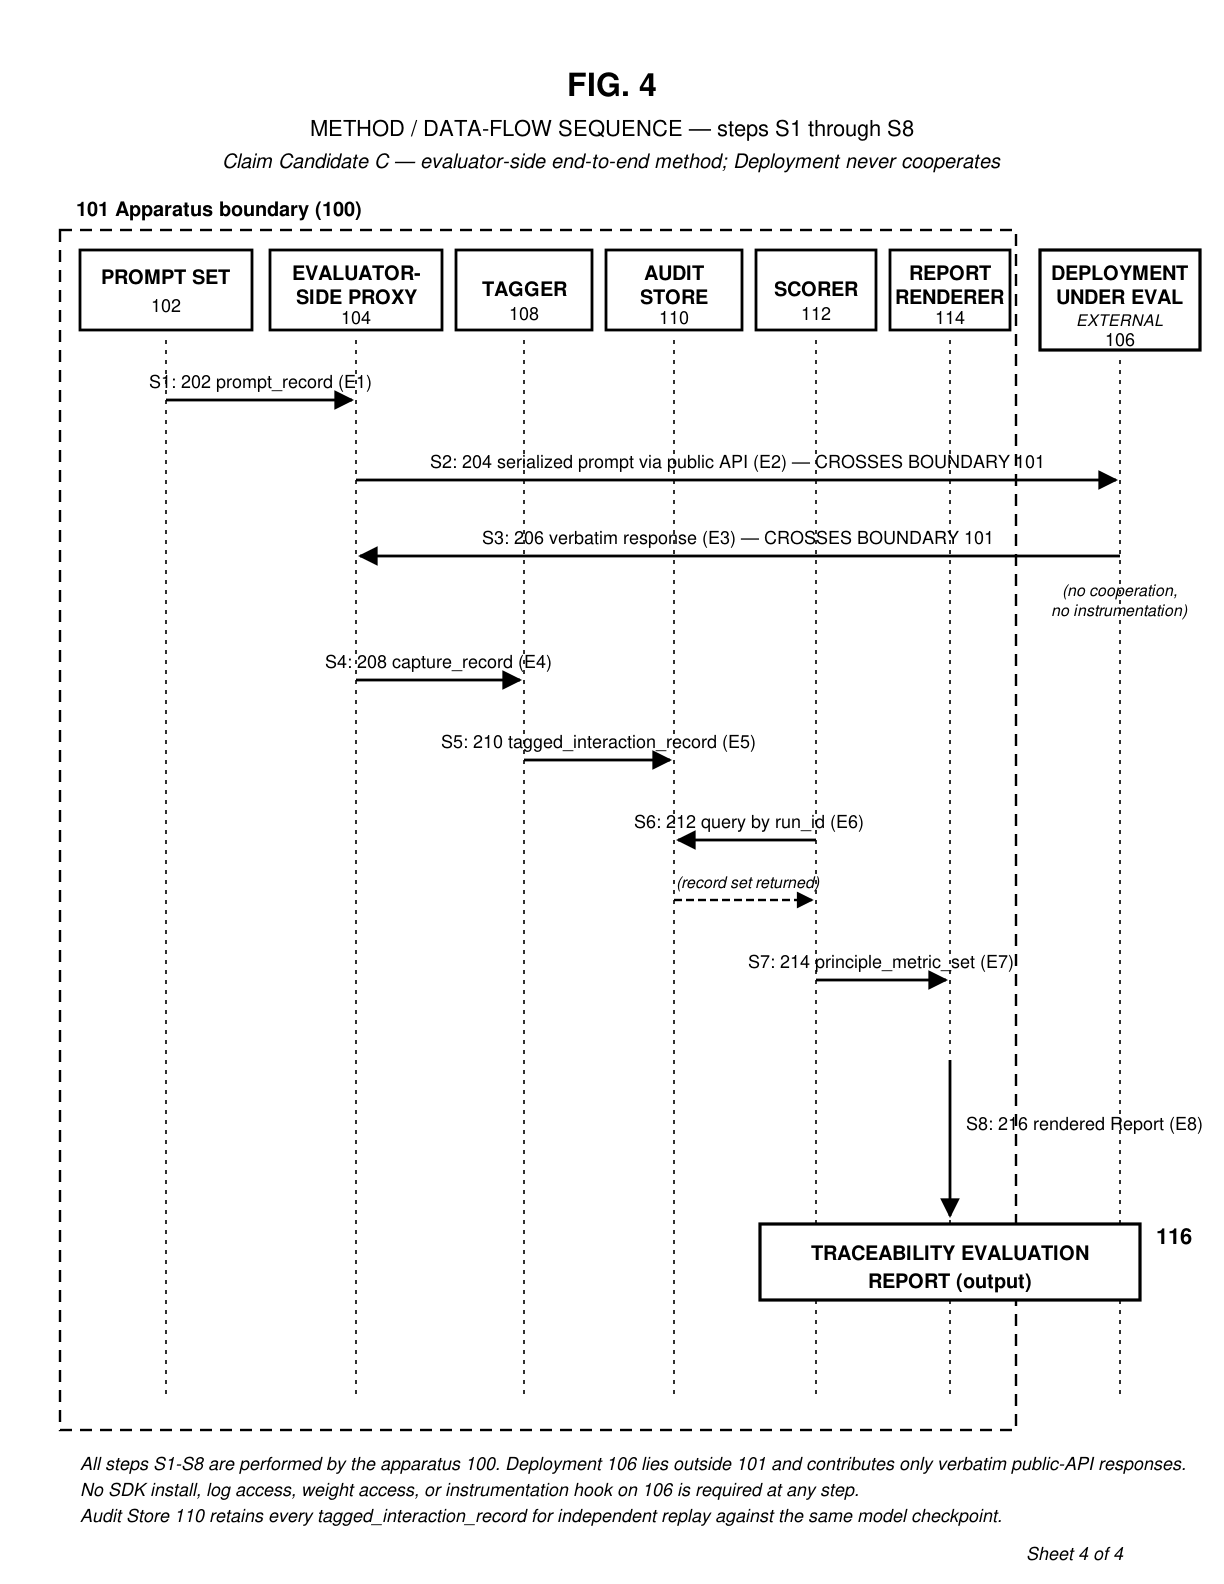
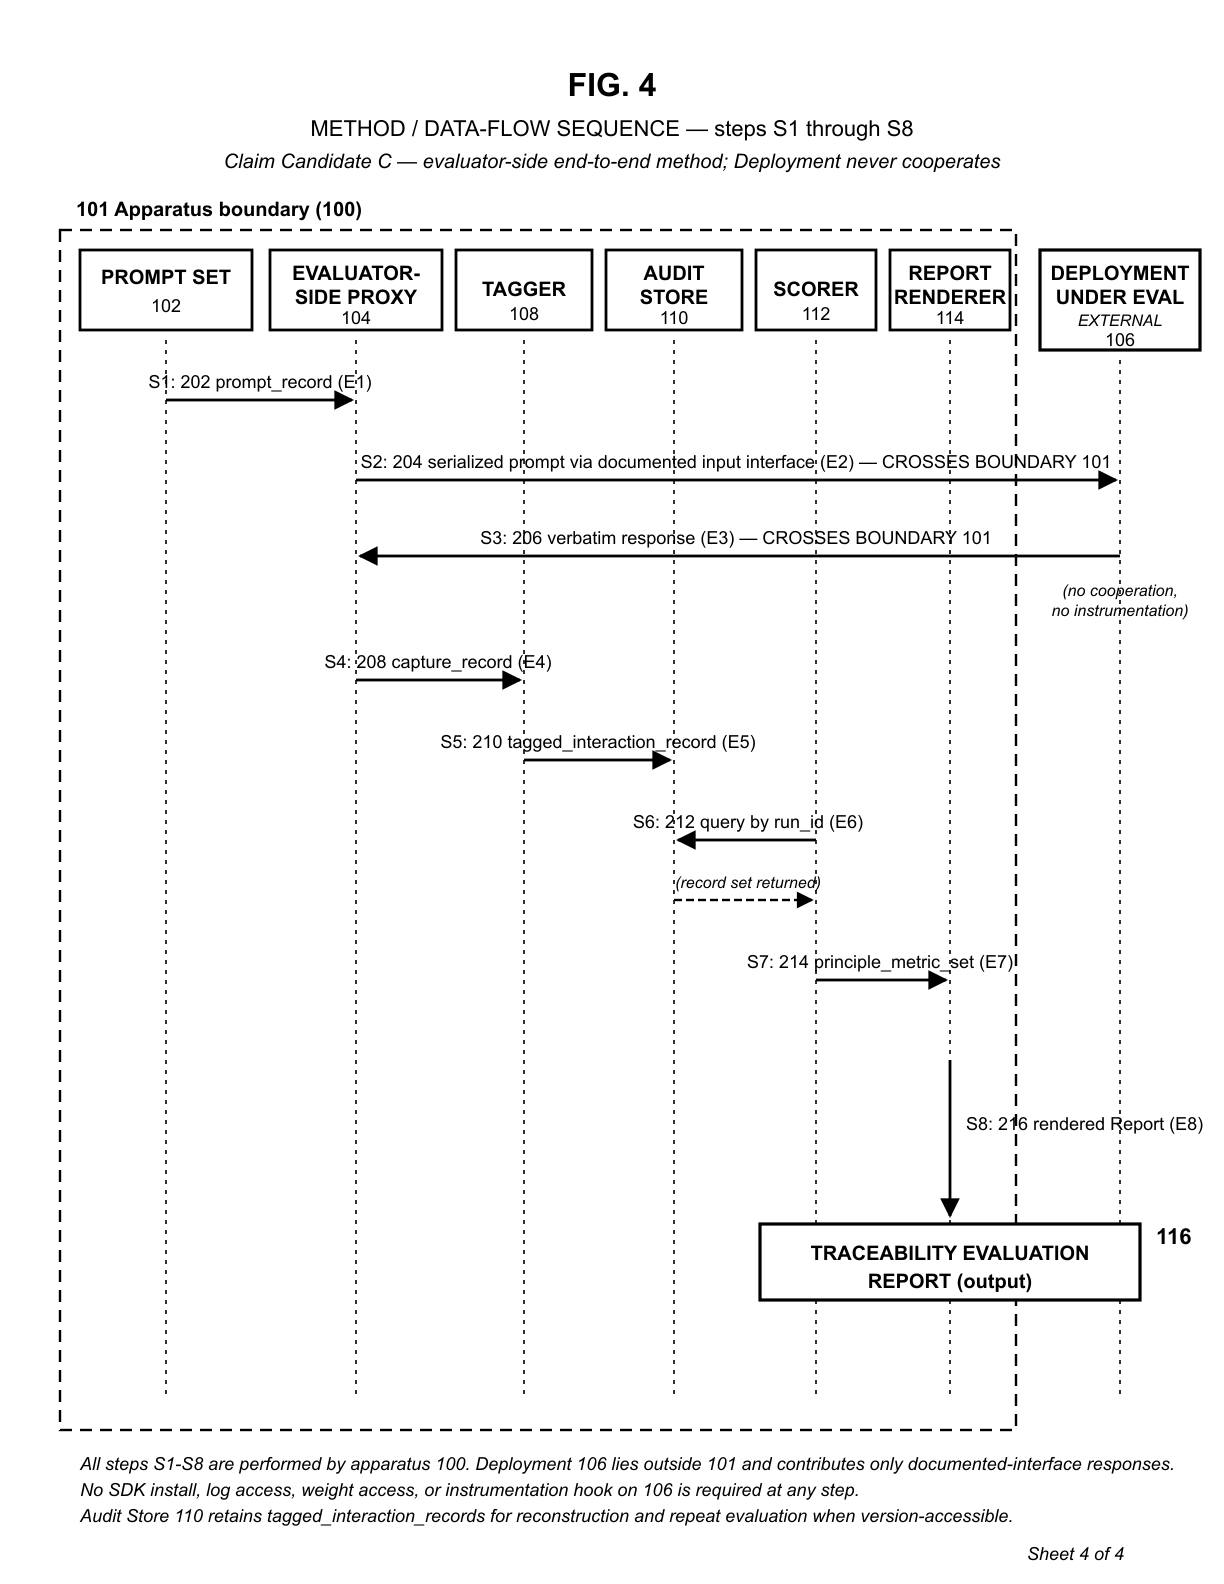
Replace 'public API' with 'documented input interface'
Update wording across docs and figures to prefer 'documented input interface' over 'public API'; clarify log retention language to emphasize reconstruction and repeat evaluation when version access is available; change Report Renderer wording to 'structured report'; make minor SVG layout/text-anchor tweaks for figures; update binary figure assets

diff --git a/docs/501c3/SUNDOG_APPARATUS_GRAPHS_v0.1_DRAFT.md b/docs/501c3/SUNDOG_APPARATUS_GRAPHS_v0.1_DRAFT.md
@@ -82,7 +82,7 @@ flowchart TB
     R["Report Renderer<br/>Traceability Evaluation Report"]
 
     PS -->|"E1: prompt_record"| P
-    P -->|"E2: serialized prompt via public API"| D
+    P -->|"E2: serialized prompt via documented input interface"| D
     D -->|"E3: verbatim response"| P
     P -->|"E4: capture record"| T
     T -->|"E5: tagged interaction record"| AS
@@ -101,14 +101,14 @@ flowchart TB
 | **Tagger** | Applies the four-surface marker schema (per-claim provenance tags; uncertainty markers; refusal classification) to each capture. Implementation may be rule-based, classifier-based, or hybrid; output schema is invariant across implementations. | `capture_record` | `tagged_interaction_record` |
 | **Audit Store** | Persists every `tagged_interaction_record` against a published schema, indexed by `evaluation_run_id`, with retention and reconstruction guarantees specified in §5.2 of the harness outline. | `tagged_interaction_record` | queryable record set |
 | **Scoring Module** | Reduces an evaluation run's record set to a principle-indexed metric set keyed to Initiative §2.1 / §2.2 / §2.3 / §2.7, with status-matrix marking (Instrumented / Deferred / Paper-level-only). | record set | `principle_metric_set` |
-| **Report Renderer** | Emits the Traceability Evaluation Report in the published Appendix-D format. | `principle_metric_set` | rendered Report |
+| **Report Renderer** | Emits the Traceability Evaluation Report in a structured report format. | `principle_metric_set` | rendered Report |
 
 ### 2.3 Named edges with data structures
 
 | Edge | From → To | Carried structure |
 |------|-----------|-------------------|
 | **E1** | PromptSet → Proxy | `{prompt_id, prompt_text, category_label, expected_behaviour_class}` |
-| **E2** | Proxy → Deployment | serialized prompt over public API (HTTP, gRPC, etc.) |
+| **E2** | Proxy → Deployment | serialized prompt over documented input interface (HTTP, gRPC, etc.) |
 | **E3** | Deployment → Proxy | verbatim response (text + any returned metadata) |
 | **E4** | Proxy → Tagger | `{prompt_record, response_record, model_version, configuration, capture_timestamp}` |
 | **E5** | Tagger → AuditStore | E4 fields PLUS `{per_claim_provenance_tags[], uncertainty_markers[], refusal_classification, tagger_version, tagger_confidence_per_decision}` |

diff --git a/docs/501c3/HALO_INITIATIVE_v0.1.md b/docs/501c3/HALO_INITIATIVE_v0.1.md
@@ -172,8 +172,9 @@ or escalated.
 **Observable requirements.**
 - Logs include prompt, response, provenance tags, and any uncertainty,
   refusal, and escalation markers.
-- Logs are retained in a form that supports independent replay against
-  the same model version under stated conditions.
+- Logs are retained in a form that supports reconstruction from
+  persisted records and repeat evaluation when the stated model version
+  remains accessible under stated conditions.
 - Logs are accessible to the deploying party and, under defined
   consent, to evaluators.
 

diff --git a/docs/501c3/figures/REFERENCE_NUMERAL_LEGEND.md b/docs/501c3/figures/REFERENCE_NUMERAL_LEGEND.md
@@ -62,7 +62,7 @@ applied uniformly across all figures.
 | Numeral | Edge | Carried structure |
 |--------|------|-------------------|
 | 202 | E1 — PromptSet to Proxy | `prompt_record` |
-| 204 | E2 — Proxy to Deployment | serialized prompt via public API |
+| 204 | E2 — Proxy to Deployment | serialized prompt via documented input interface |
 | 206 | E3 — Deployment to Proxy | verbatim response |
 | 208 | E4 — Proxy to Tagger | `capture_record` |
 | 210 | E5 — Tagger to AuditStore | `tagged_interaction_record` |